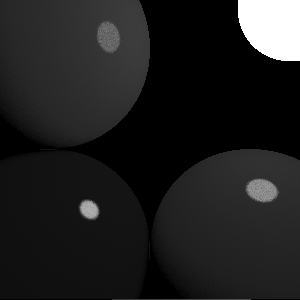
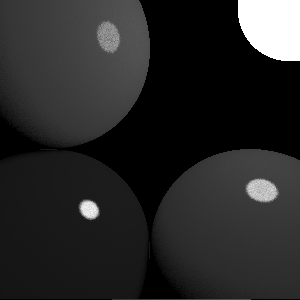
[task07] fix a bug in light + brdf img

Changed region(s): [[0.3, 0.06, 0.48, 0.18], [0.81, 0.57, 0.93, 0.69], [0.27, 0.66, 0.33, 0.75]]

diff --git a/task07/main.cpp b/task07/main.cpp
@@ -405,7 +405,7 @@ int main() {
         float hit0_pdf_brdf_sample = spheres[hit0_object].pdf(hit0_normal, cam_ray_dir, hit0_refl);
         float hit0_pdf_light_sample = pdf_light_sample(hit0_normal, hit0_pos, cam_ray_dir, hit0_refl, hit0_object);
         float w_light = hit0_pdf_light_sample / (hit0_pdf_light_sample + hit0_pdf_brdf_sample);
-        float rad = w_light * hit0_brdf * hit1_rad / hit0_pdf_light_sample/ nsample;
+        float rad = w_light * hit0_brdf * hit1_rad / hit0_pdf_light_sample/ (nsample / 2.);
         img_mis[ih * img_width + iw] += rad;
       }
       for (int isample = 0; isample < nsample / 2; ++isample) {
@@ -418,7 +418,7 @@ int main() {
         float hit0_pdf_light_sample = pdf_light_sample(hit0_normal, hit0_pos, cam_ray_dir, hit0_refl, hit0_object);
         float hit0_pdf_brdf_sample = spheres[hit0_object].pdf(hit0_normal, cam_ray_dir, hit0_refl);
         float w_brdf = hit0_pdf_brdf_sample / (hit0_pdf_light_sample + hit0_pdf_brdf_sample);
-        float rad = w_brdf * hit0_brdf * hit1_rad / hit0_pdf_brdf_sample/ nsample;
+        float rad = w_brdf * hit0_brdf * hit1_rad / hit0_pdf_brdf_sample/ (nsample / 2.);
         img_mis[ih * img_width + iw] += rad;
       }
     }
